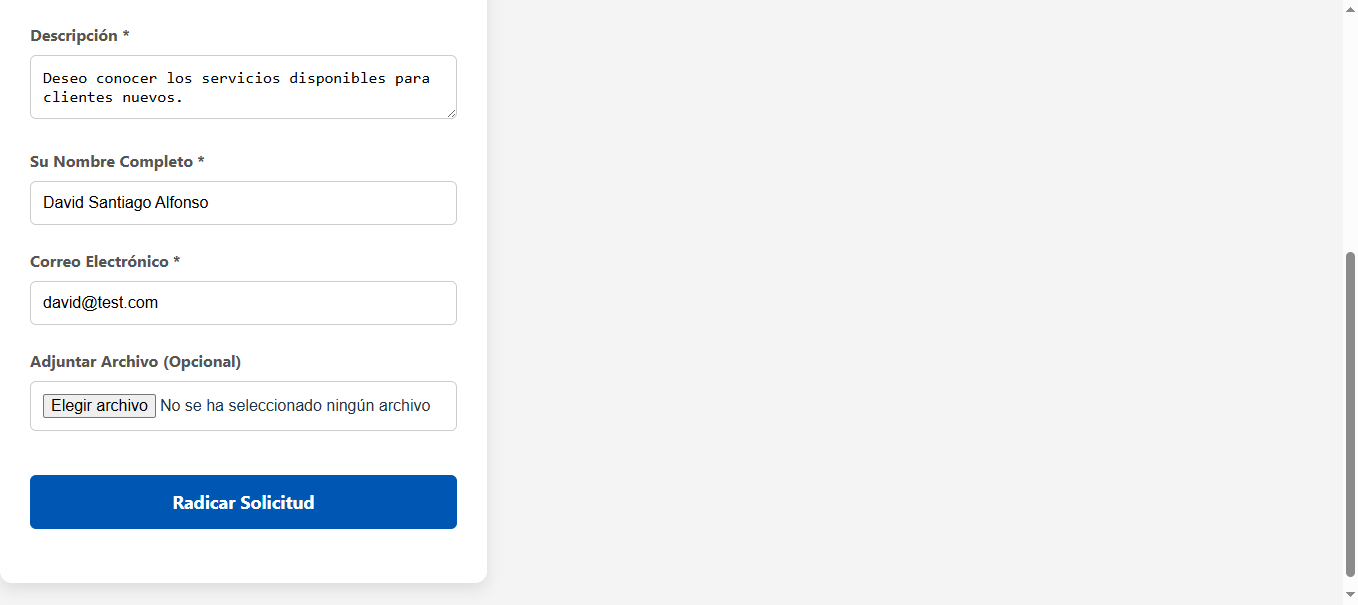
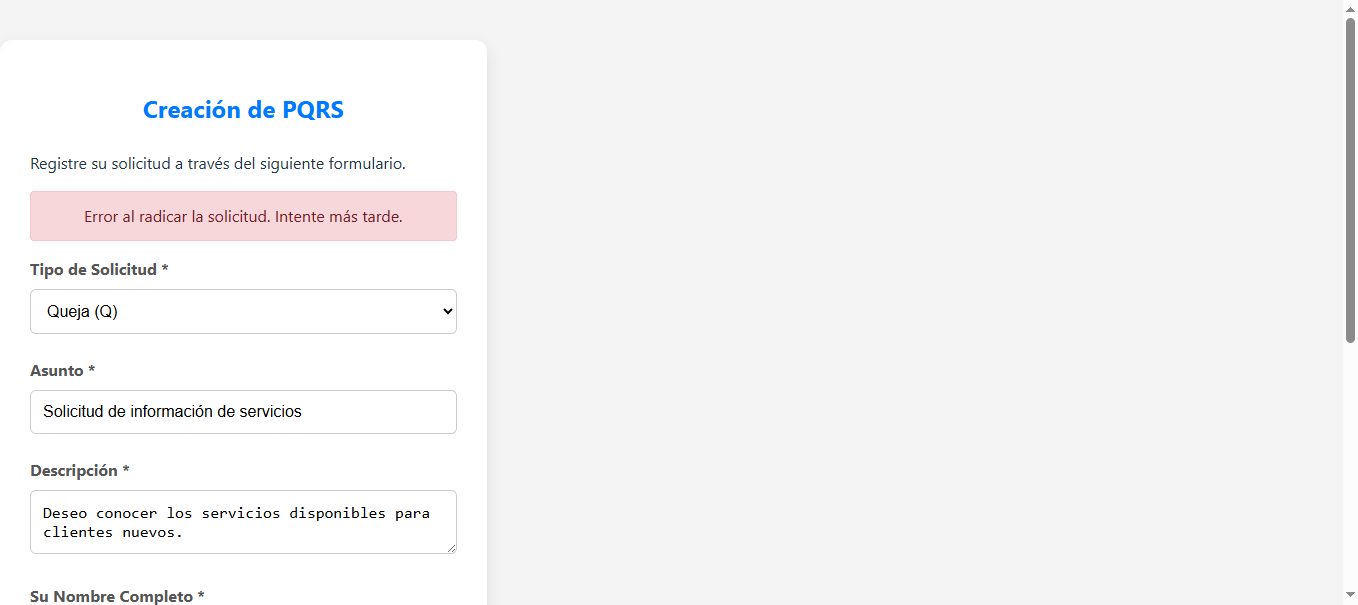
Version test creado #27 de creacion de queja con archivo invalido 15/11/25

diff --git a/test/pqrs/test_pqr_creacion_archivo_invalido_queja.py b/test/pqrs/test_pqr_creacion_archivo_invalido_queja.py
@@ -1,0 +1,61 @@
+# Fecha creacion: 14/11/2025
+# Ultima fecha de modificación: 14/11/2025
+# Autor: David Santiago Alfonso Guzman
+# Descripcion: Este archivo prueba el test case #27 sobre la creacion PQRS ,opcion queja , datos validos , con archivos invalidos
+
+import os
+import time
+import pytest
+from selenium import webdriver
+from selenium.webdriver.edge.options import Options
+from selenium.webdriver.edge.service import Service
+from webdriver_manager.microsoft import EdgeChromiumDriverManager
+from pages.pqrs_page import PQRSPage
+
+
+@pytest.fixture
+def driver():
+    
+    options = Options()
+    options.add_argument("--start-maximized")
+
+    service = Service("C:\\SeleniumDrivers\\edgedriver_win64\\msedgedriver.exe")
+
+    driver = webdriver.Edge(service=service, options=options)
+    yield driver
+    driver.quit()
+
+
+def test_creacion_pqrs_queja_con_archivo_invalido(driver, request):
+    """Caso #27: Creacion PQRS ,opcion queja , datos validos , con archivos invalidos"""
+
+    pqrs = PQRSPage(driver)
+    pqrs.abrir_pagina("http://localhost:5173")
+
+    archivo_path = os.path.abspath("resources/package-lock.json")
+
+    driver.save_screenshot("reportes/01_pagina_cargada.png")
+
+    pqrs.llenar_formulario(
+        tipo="QUEJA",
+        asunto="Solicitud de información de servicios",
+        descripcion="Deseo conocer los servicios disponibles para clientes nuevos.",
+        nombre="David Santiago Alfonso",
+        email="david@test.com",
+        archivo_path=archivo_path
+    )
+    driver.save_screenshot("reportes/02_formulario_lleno.png")
+
+    pqrs.enviar_formulario()
+    time.sleep(3)
+    driver.save_screenshot("reportes/03_envio_realizado.png")
+
+    # Aquí verificamos el mensaje de error
+    mensaje_error = pqrs.obtener_mensaje_error()  # <-- método implementado en PQRSPage
+    driver.save_screenshot("reportes/04_resultado.png")
+
+    # Aserción: debe mostrar un mensaje indicando que el archivo no es válido
+    assert any(
+        texto in mensaje_error.lower()
+        for texto in ["archivo no válido", "formato inválido", "error al radicar la solicitud", "error en archivo"]
+    ), f"Error: No se mostró mensaje de archivo inválido. Texto recibido: {mensaje_error}"
